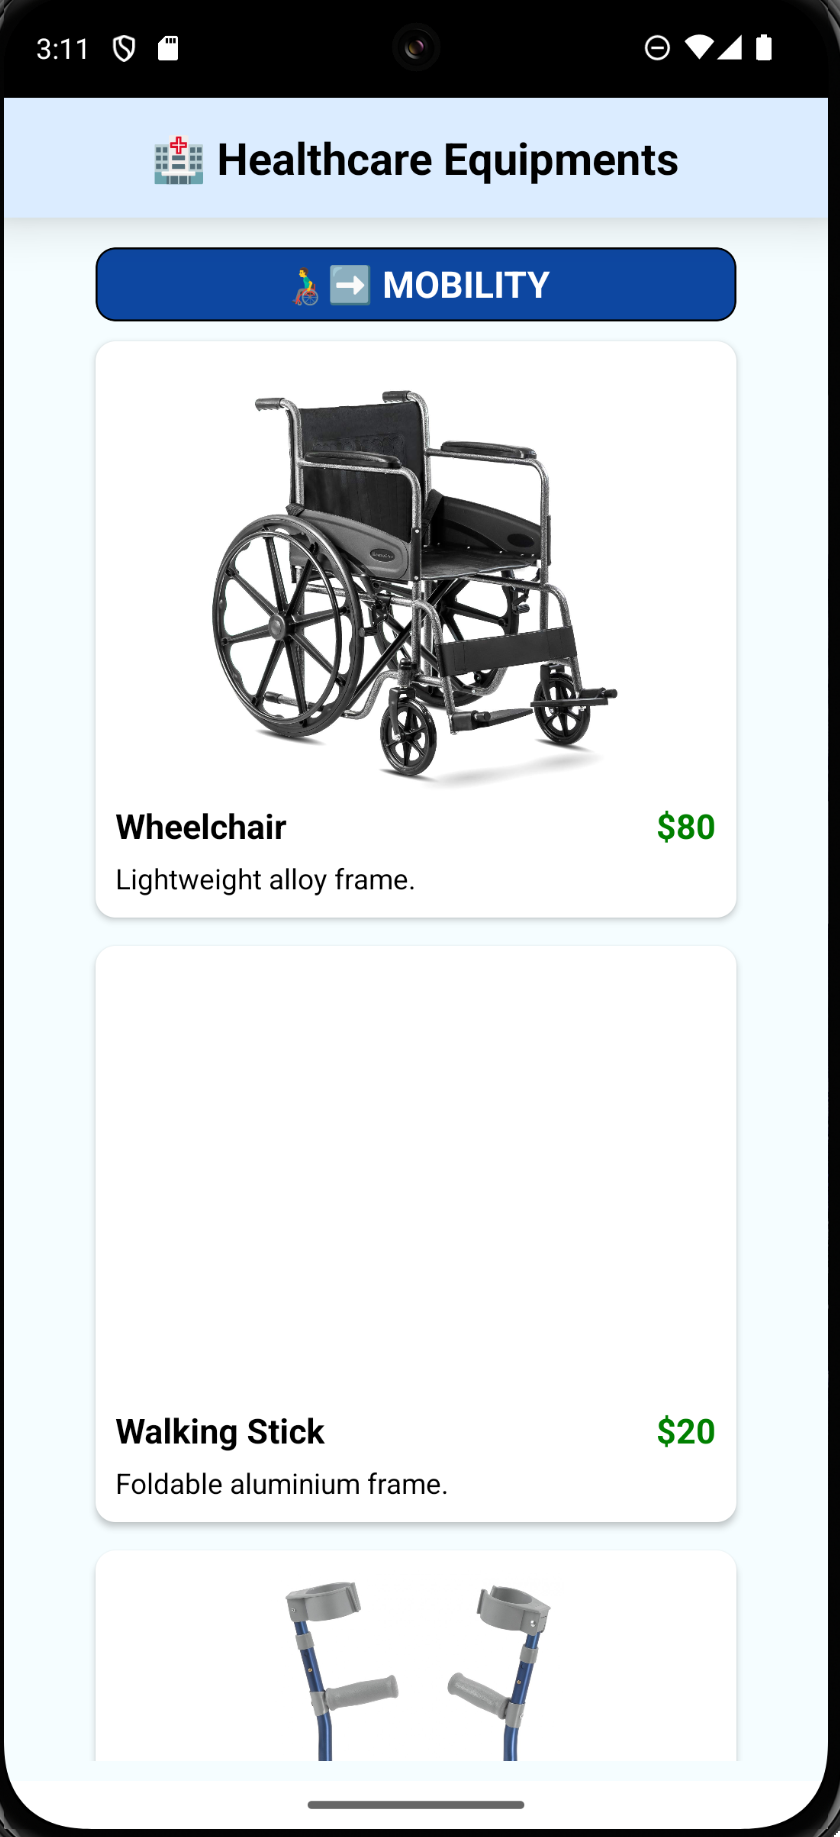
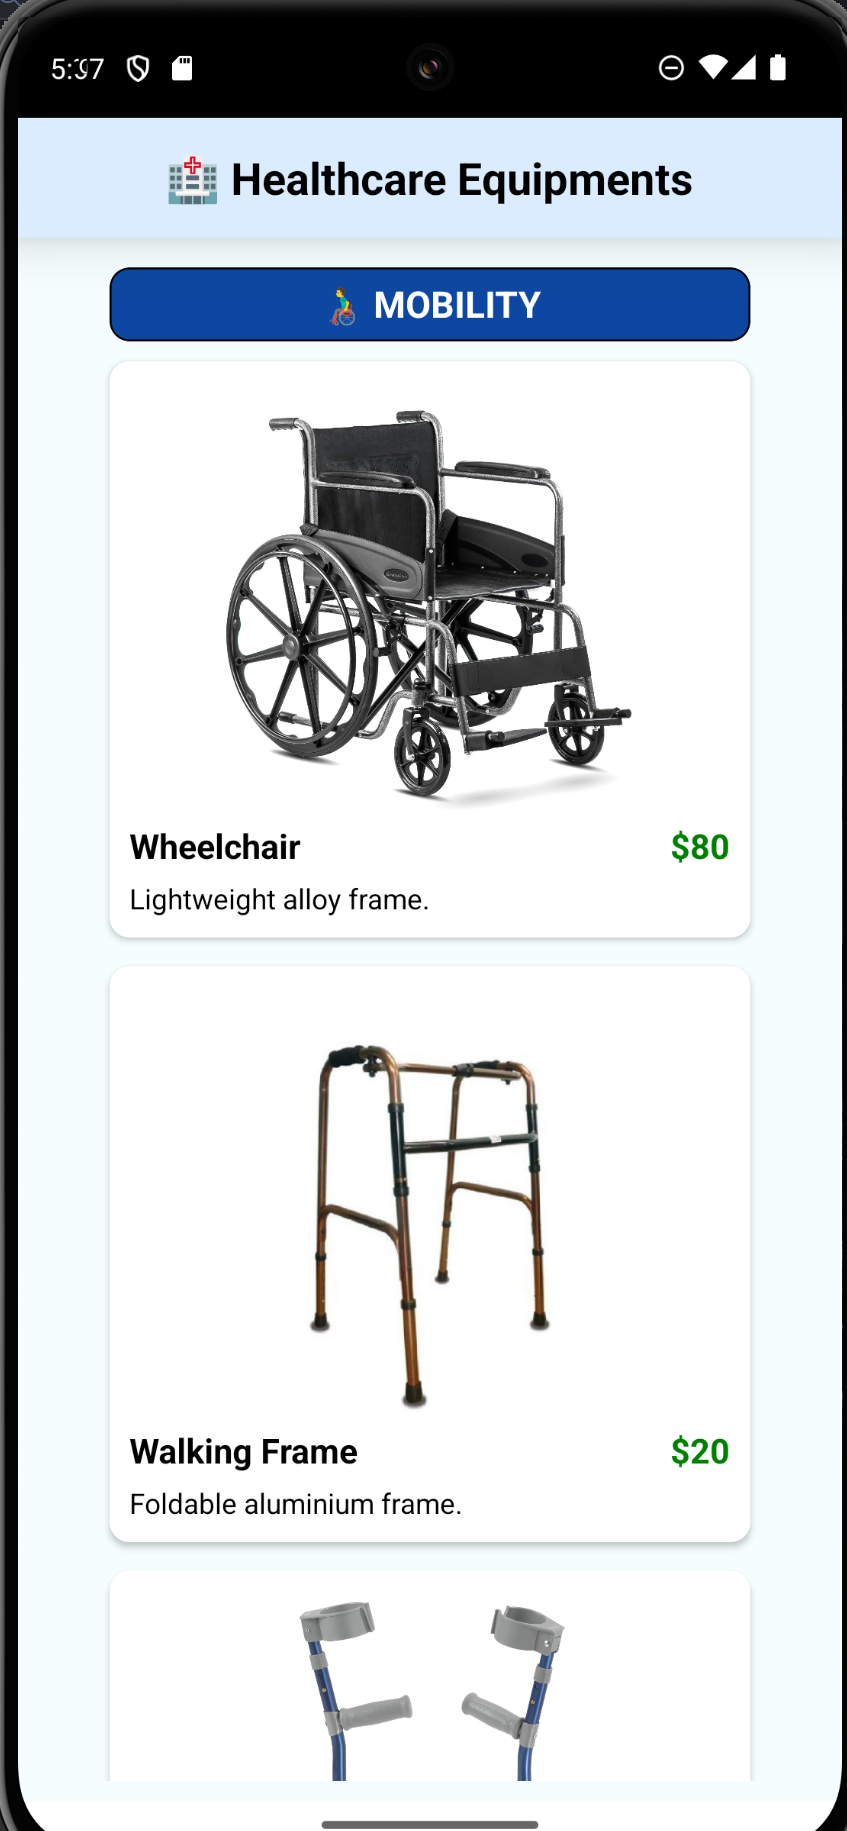
update image

Changed region(s): [[0.0, 0.0, 1.0, 1.0], [0.3714, 0.5603, 0.65, 0.7783], [0.7738, 0.4358, 0.8667, 0.467]]

diff --git a/medicalEquipmentData.js b/medicalEquipmentData.js
@@ -4,7 +4,7 @@ const medicalEquipmentData = [
 ******************/
   {
     title: "Mobility",
-    icon: "👨🦽➡",
+    icon: "👨🦽",
     data: [
       {
         name: "Wheelchair",
@@ -13,8 +13,8 @@ const medicalEquipmentData = [
         price: 80,
       },
       {
-        name: "Walking Stick",
-        imageUrl: "./assets/img/WalkingStick4.jpg",
+        name: "Walking Frame",
+        imageUrl: require("./assets/img/walkingFrameA.jpeg"),
         description: "Foldable aluminium frame.",
         price: 20,
       },
